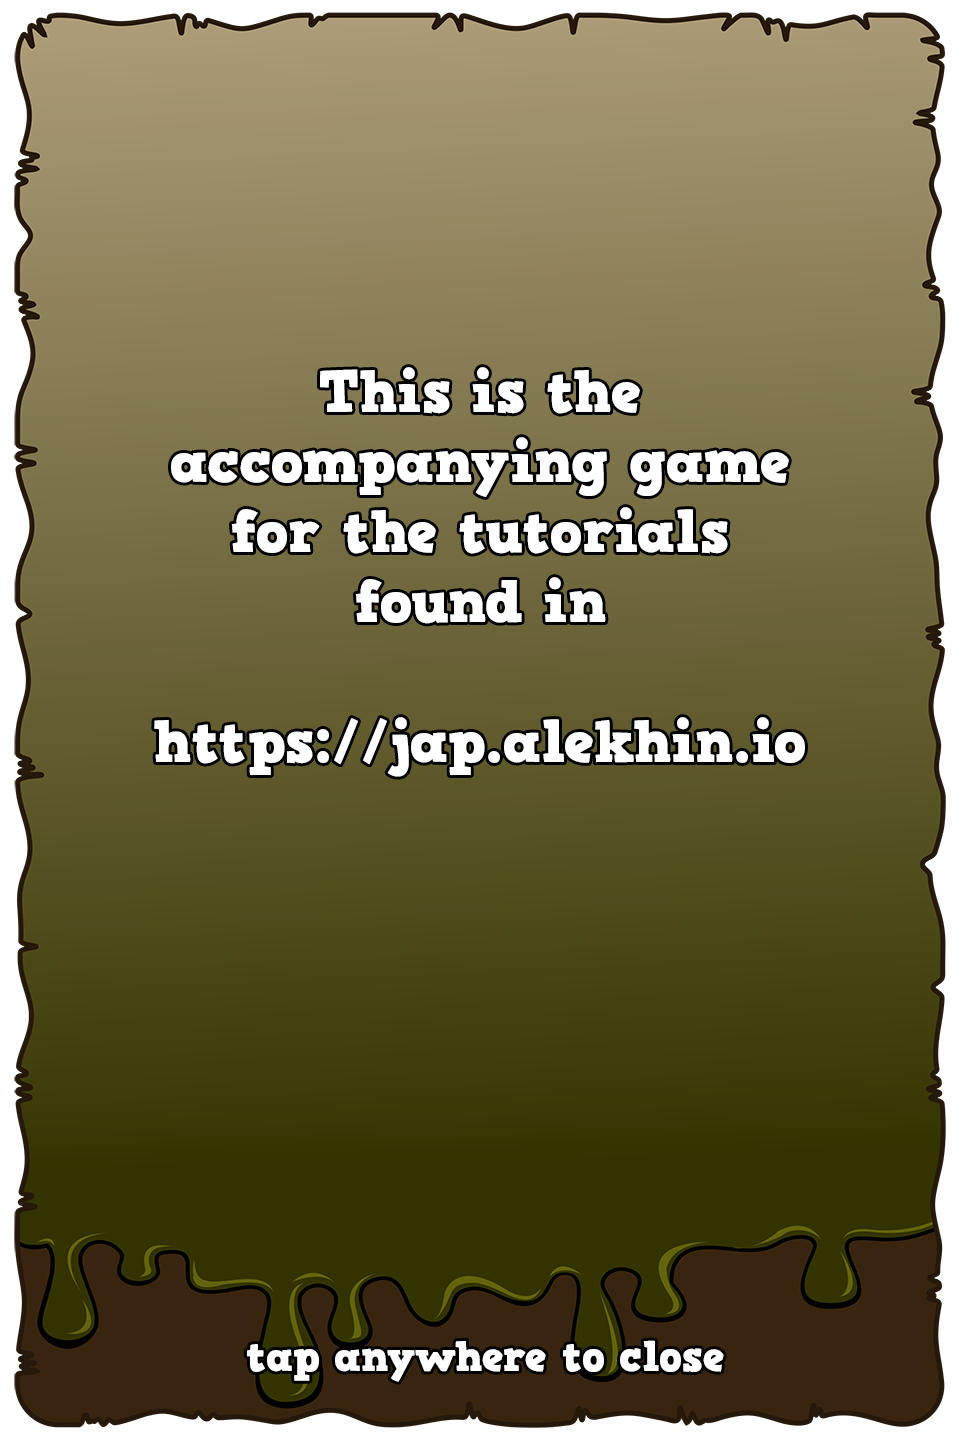
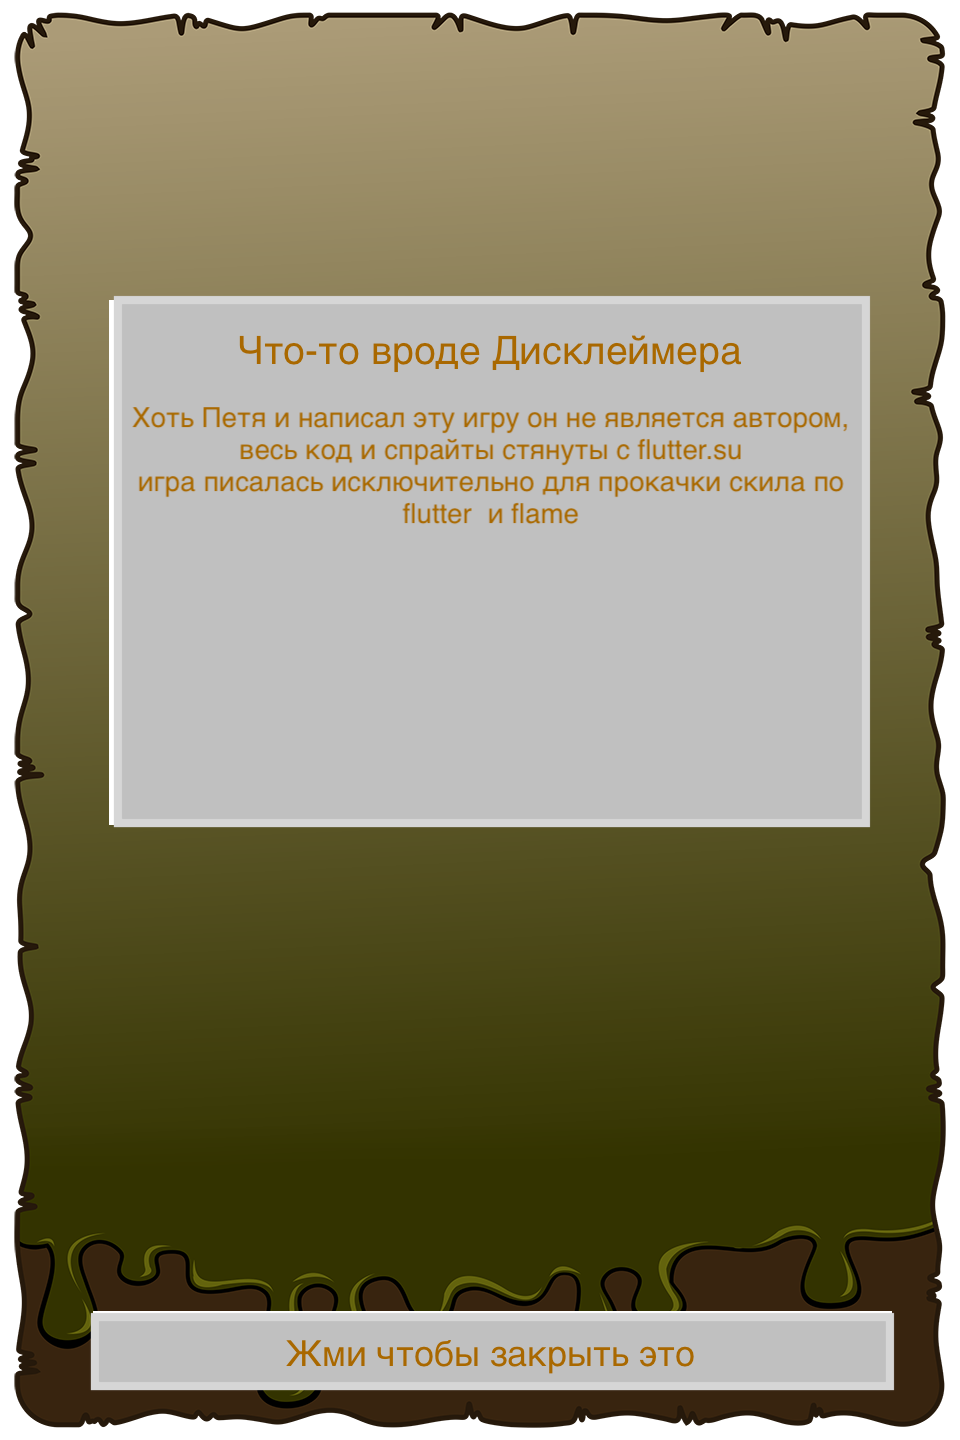
help_and_credits

diff --git a/lib/flykiller-game.dart b/lib/flykiller-game.dart
@@ -5,8 +5,12 @@ import 'package:flame/flame.dart';
 import 'package:flame/game.dart';
 import 'package:flutter/cupertino.dart';
 import 'package:fly_killer/components/backGround.dart';
+import 'package:fly_killer/components/credits-button.dart';
+import 'package:fly_killer/components/help-button.dart';
 import 'package:fly_killer/components/start-button.dart';
 import 'package:fly_killer/controllers/spawner.dart';
+import 'package:fly_killer/views/credits-view.dart';
+import 'package:fly_killer/views/help-view.dart';
 import 'package:fly_killer/views/home-view.dart';
 import 'package:fly_killer/views/lost-view.dart';
 
@@ -27,6 +31,10 @@ class FlyKillerGame extends Game {
   View activeView = View.home;
   StartButton startButton;
   FlySpawner spawner;
+  CreditsButton creditsButton;
+  HelpButton helpButton;
+  CreditsView creditsView;
+  HelpView helpView;
 
   HomeView homeView;
   LostView lostView;
@@ -43,6 +51,10 @@ class FlyKillerGame extends Game {
     lostView = LostView(this);
     startButton = StartButton(this);
     spawner = FlySpawner(this);
+    helpButton = HelpButton(this);
+    creditsButton = CreditsButton(this);
+    helpView = HelpView(this);
+    creditsView = CreditsView(this);
   }
   void spawnFly(){  // добавлятель мух
     double x = rnd.nextDouble() * (screenSize.width - (tileSize * 2.025));
@@ -72,7 +84,13 @@ class FlyKillerGame extends Game {
     flies.forEach((Fly fly)=> fly.render(canvas)); // отрисовка мух ил List (flies)
     if(activeView == View.home) homeView.render(canvas);
     if(activeView == View.lose) lostView.render(canvas);
-    if(activeView == View.home || activeView == View.lose) startButton.render(canvas);
+    if(activeView == View.home || activeView == View.lose) {
+      startButton.render(canvas);
+      helpButton.render(canvas);
+      creditsButton.render(canvas);
+    }
+    if(activeView == View.help)helpView.render(canvas);
+    if(activeView == View.credits)creditsView.render(canvas);
   }
 
   @override
@@ -89,6 +107,7 @@ class FlyKillerGame extends Game {
   void onTapDown(TapDownDetails d){
     bool didHitAFly = false;
     bool isHandled = false;
+    //start button
     if(!isHandled && startButton.rect.contains(d.globalPosition)){
       if(activeView == View.home || activeView == View.lose){
         startButton.onTapDown();
@@ -107,6 +126,26 @@ class FlyKillerGame extends Game {
         activeView = View.lose;
       }
 
+    }
+    // help button
+    if(!isHandled && helpButton.rect.contains(d.globalPosition)){
+      if(activeView == View.home || activeView == View.lose){
+        helpButton.onTapDown();
+        isHandled = true;
+      }
+    }
+    // credits button
+    if(!isHandled && creditsButton.rect.contains(d.globalPosition)){
+      if(activeView == View.home || activeView == View.lose){
+        creditsButton.onTapDown();
+        isHandled = true;
+      }
+    }
+    if(!isHandled){
+      if(activeView == View.help || activeView == View.credits){
+        activeView = View.home;
+        isHandled = true;
+      }
     }
   }
 }

diff --git a/lib/components/credits-button.dart b/lib/components/credits-button.dart
@@ -1,0 +1,27 @@
+import 'dart:ui';
+
+import 'package:flame/sprite.dart';
+import 'package:flutter/material.dart';
+import 'package:fly_killer/flykiller-game.dart';
+
+import '../view.dart';
+
+class CreditsButton{
+  final FlyKillerGame game;
+  Rect rect;
+  Sprite sprite;
+  CreditsButton(this.game){
+    rect = Rect.fromLTWH(
+        game.screenSize.width - (game.tileSize * 1.25),
+        game.screenSize.height - (game.tileSize * 1.25),
+        game.tileSize,
+        game.tileSize);
+    sprite = Sprite('ui/icon-credits.png');
+  }
+  void render(Canvas c){
+    sprite.renderRect(c, rect);
+  }
+  void onTapDown(){
+    game.activeView = View.credits;
+  }
+}

diff --git a/lib/components/help-button.dart b/lib/components/help-button.dart
@@ -1,0 +1,25 @@
+import 'dart:ui';
+
+import 'package:flame/sprite.dart';
+import 'package:fly_killer/flykiller-game.dart';
+import 'package:fly_killer/view.dart';
+
+class HelpButton{
+  final FlyKillerGame game;
+  Rect rect;
+  Sprite sprite;
+
+  HelpButton(this.game){
+    rect = Rect.fromLTWH(game.tileSize * .25,
+        game.screenSize.height - (game.tileSize * 1.25),
+        game.tileSize,
+        game.tileSize);
+    sprite = Sprite('ui/icon-help.png');
+  }
+  void render(Canvas c){
+    sprite.renderRect(c,rect);
+  }
+  void onTapDown(){
+    game.activeView = View.help;
+  }
+}

diff --git a/lib/views/credits-view.dart b/lib/views/credits-view.dart
@@ -1,0 +1,21 @@
+import 'dart:ui';
+
+import 'package:flame/sprite.dart';
+import 'package:fly_killer/flykiller-game.dart';
+
+class CreditsView{
+  final FlyKillerGame game;
+  Rect rect;
+  Sprite sprite;
+
+  CreditsView(this.game){
+    rect = Rect.fromLTWH(game.tileSize * .5,
+        (game.screenSize.height /2) - (game.tileSize * 6),
+        game.tileSize * 8,
+        game.tileSize * 12);
+    sprite = Sprite('ui/dialog-credits.png');
+  }
+  void render(Canvas c){
+    sprite.renderRect(c, rect);
+  }
+}

diff --git a/lib/views/help-view.dart b/lib/views/help-view.dart
@@ -1,0 +1,22 @@
+import 'dart:ui';
+
+import 'package:flame/sprite.dart';
+import 'package:fly_killer/flykiller-game.dart';
+
+class HelpView{
+  final FlyKillerGame game;
+  Rect rect;
+  Sprite sprite;
+  
+  HelpView(this.game){
+    rect = Rect.fromLTWH(game.tileSize * .5 ,
+        (game.screenSize.height / 2) - (game.tileSize * 6),
+        game.tileSize * 8,
+        game.tileSize * 12);
+    sprite = Sprite('ui/dialog-help.png');
+  }
+
+  void render(Canvas c){
+    sprite.renderRect(c,rect);
+  }
+}

diff --git a/lib/view.dart b/lib/view.dart
@@ -2,4 +2,6 @@ enum View {
   home,
   playing,
   lose,
+  help,
+  credits,
 }
